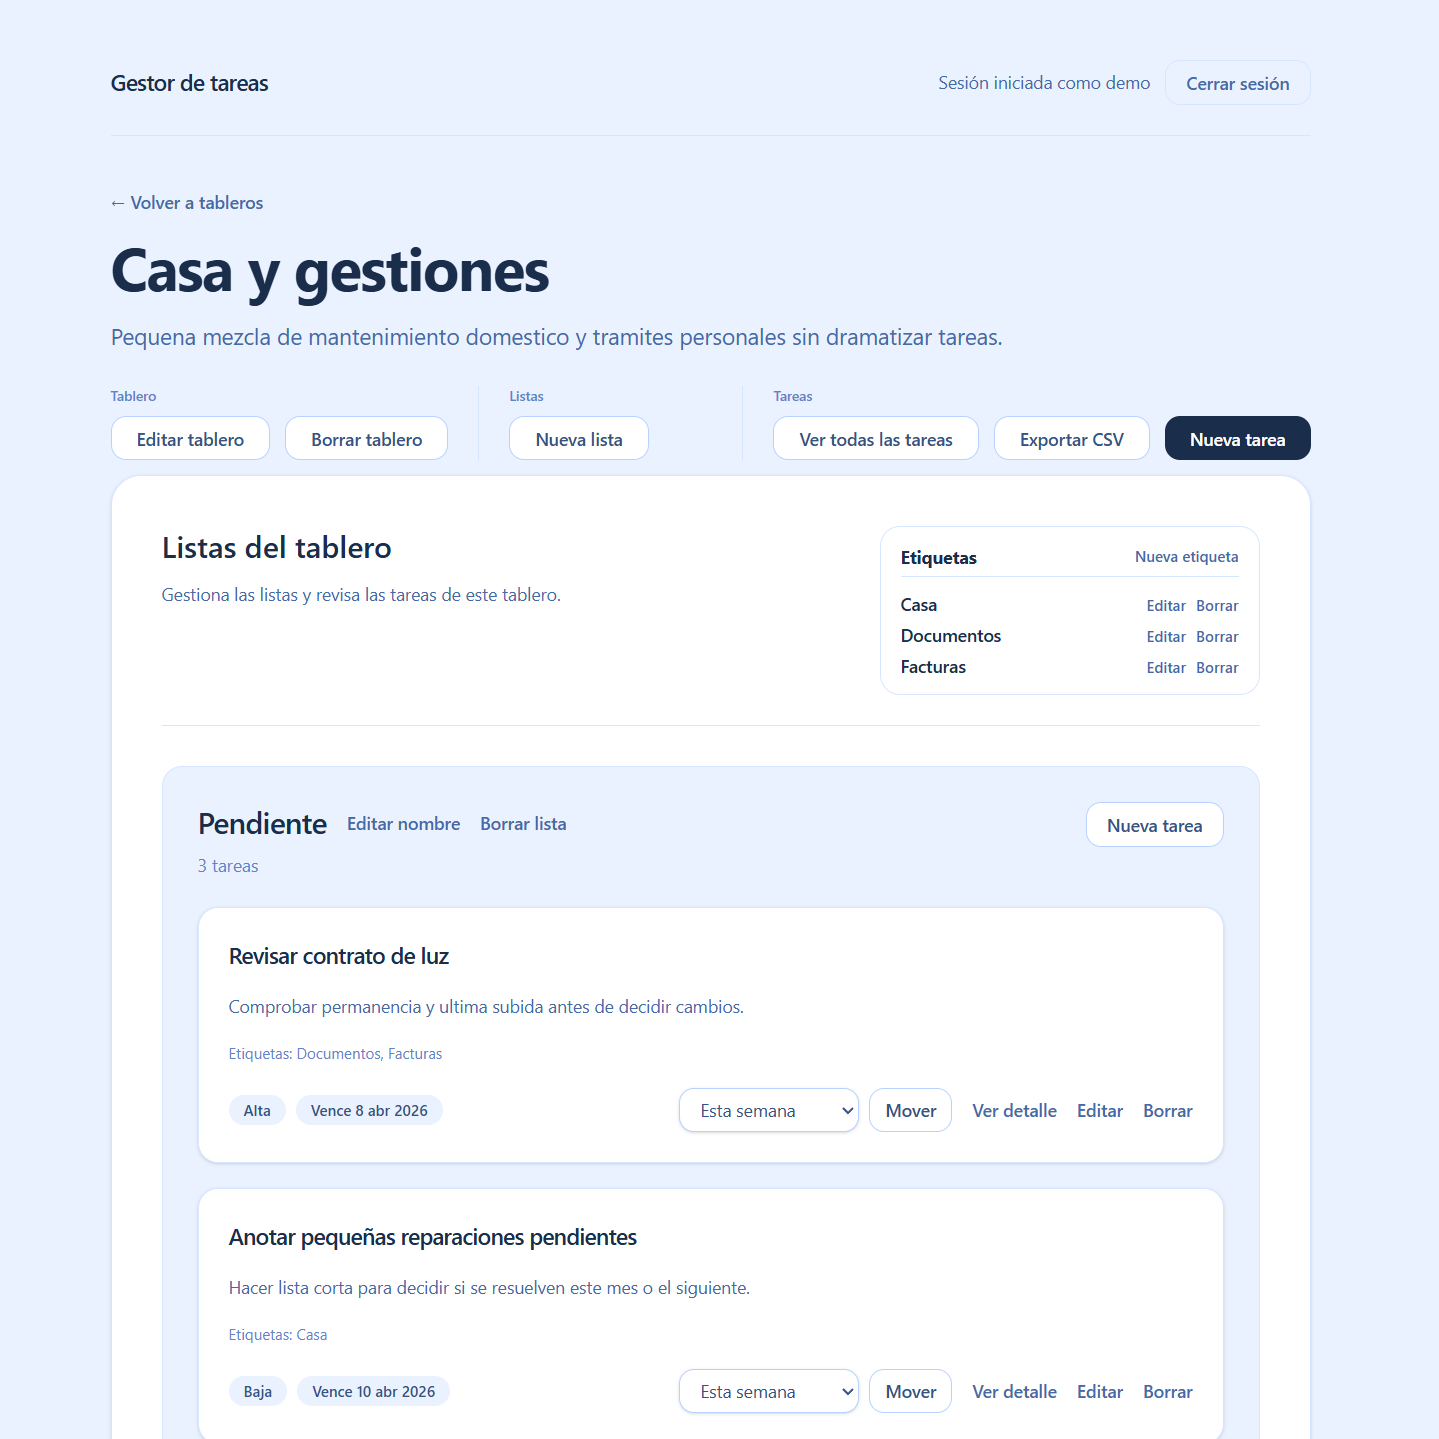
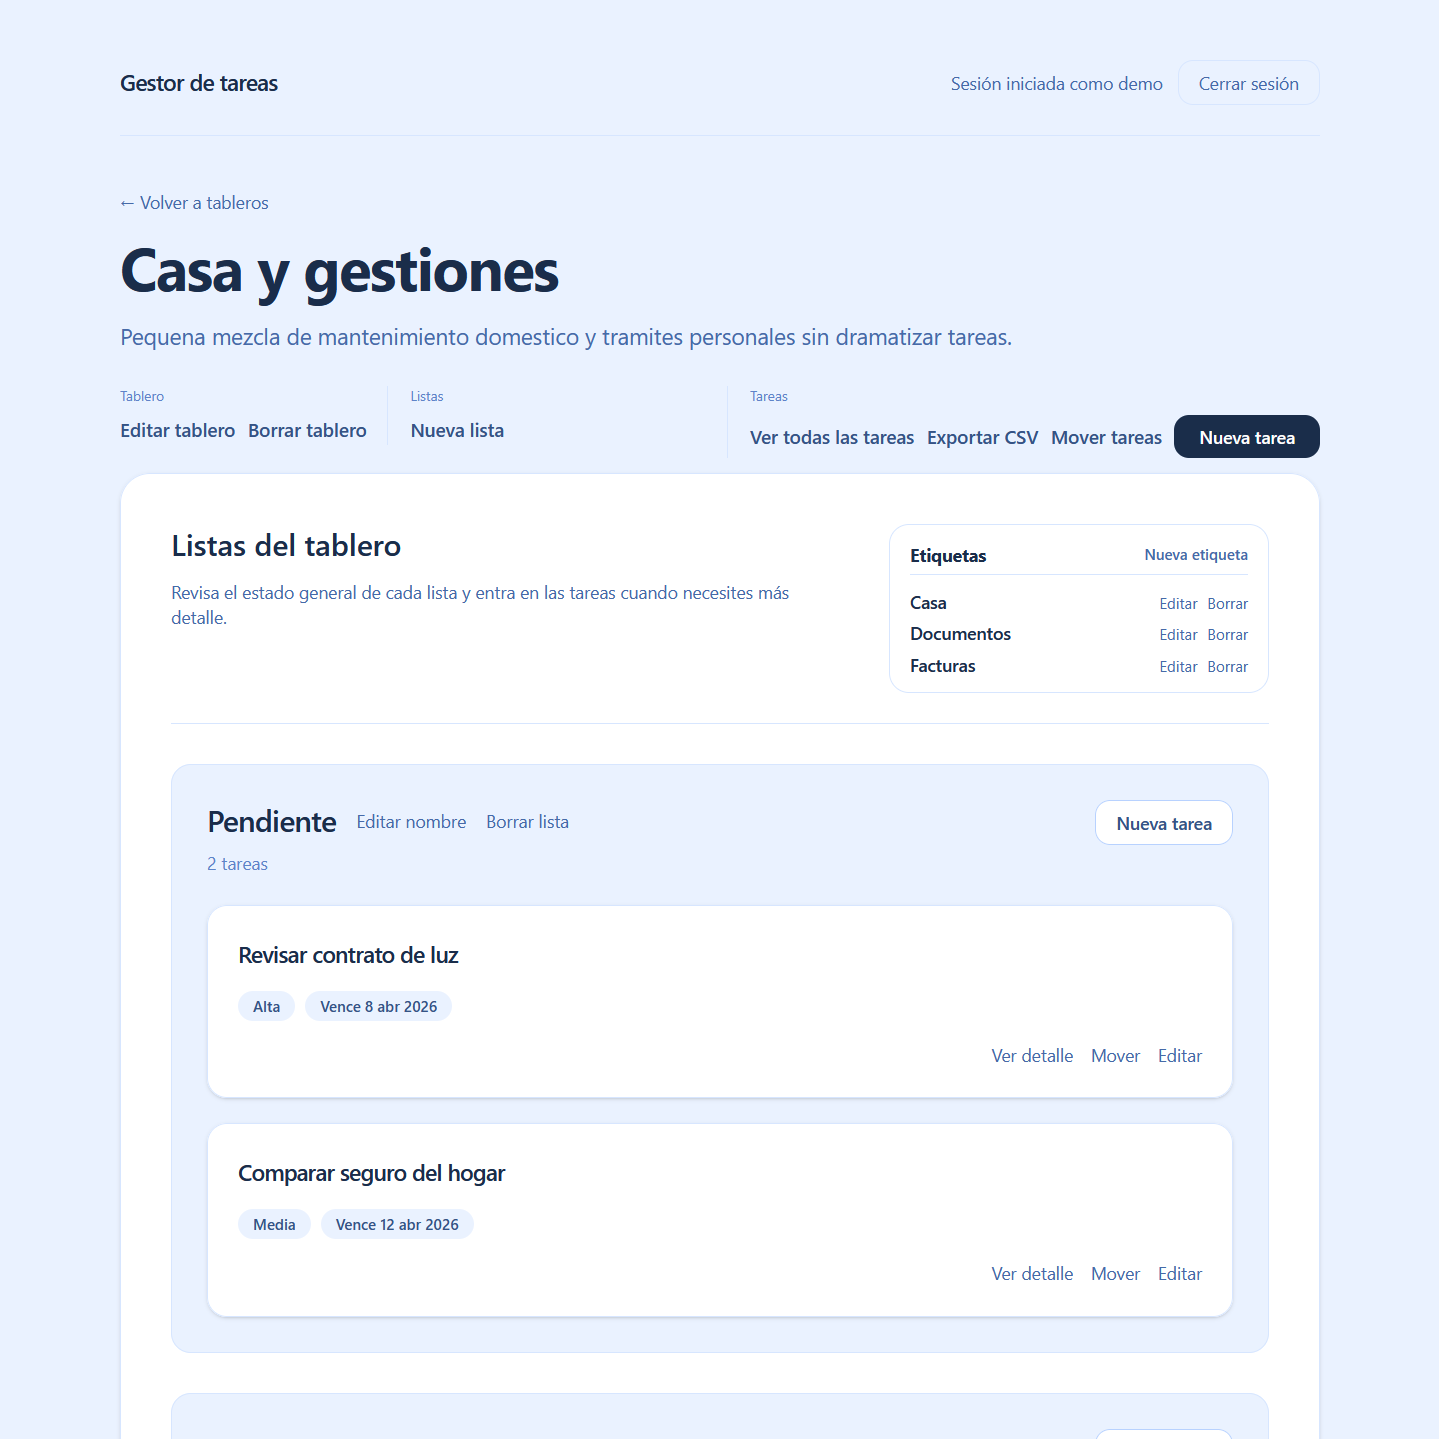
Refresh README for visible task move flow

diff --git a/README.md b/README.md
@@ -4,11 +4,13 @@ Aplicación web de gestión de tareas construida con Django para organizar traba
 
 **Demo en vivo:** https://task.franciscojbravo.com  
 **Acceso demo:** `demo` / `DemoAccess123!`  
-**Stack principal:** Python, Django, PostgreSQL, SQLite, HTML, CSS
+**Stack principal:** Python, Django, PostgreSQL, SQLite, HTML, CSS, Vanilla JavaScript
 
 ## Resumen
 
 Django Task Manager permite a cada usuario gestionar sus propios tableros, crear listas dentro de ellos y organizar tareas con prioridad, fecha límite, etiquetas y asignación.
+
+`board_detail` actúa como overview principal del tablero y la operación visible de mover tareas vive en una pantalla específica, con flujo por clic y también con arrastrar y soltar usando JavaScript nativo.
 
 La aplicación está desplegada públicamente, puede probarse con acceso demo y también puede ejecutarse en local con una base de datos de ejemplo generada mediante comando.
 
@@ -37,7 +39,9 @@ Estas son algunas vistas reales de la aplicación en su estado actual.
 - crear, editar y borrar tableros
 - crear, renombrar y borrar listas dentro de cada tablero
 - crear, editar y borrar tareas dentro de una lista
-- mover tareas entre listas desde la propia vista del tablero
+- revisar cada tablero desde una vista overview con acciones globales y acceso directo a tareas
+- mover tareas entre listas desde una pantalla específica de movimiento
+- mover tareas de forma visible con flujo por clic y también con arrastrar y soltar en Vanilla JS
 
 ### Gestión de tareas
 - asignar prioridad
@@ -68,6 +72,7 @@ Estas son algunas vistas reales de la aplicación en su estado actual.
 - **SQLite** en local
 - **HTML renderizado en servidor**
 - **CSS propio**
+- **Vanilla JavaScript** para la interacción visible de mover tareas
 - **Tests con Django TestCase**
 
 ## Demo en vivo
@@ -162,6 +167,7 @@ Credenciales demo por defecto:
 
 - aplicación Django renderizada en servidor
 - alcance contenido y centrado en el flujo principal del producto
+- movimiento visible de tareas resuelto con Vanilla JS localizado, sin frontend separado
 - demo reproducible mediante comando de siembra
 - despliegue público con base de datos real en producción
 
